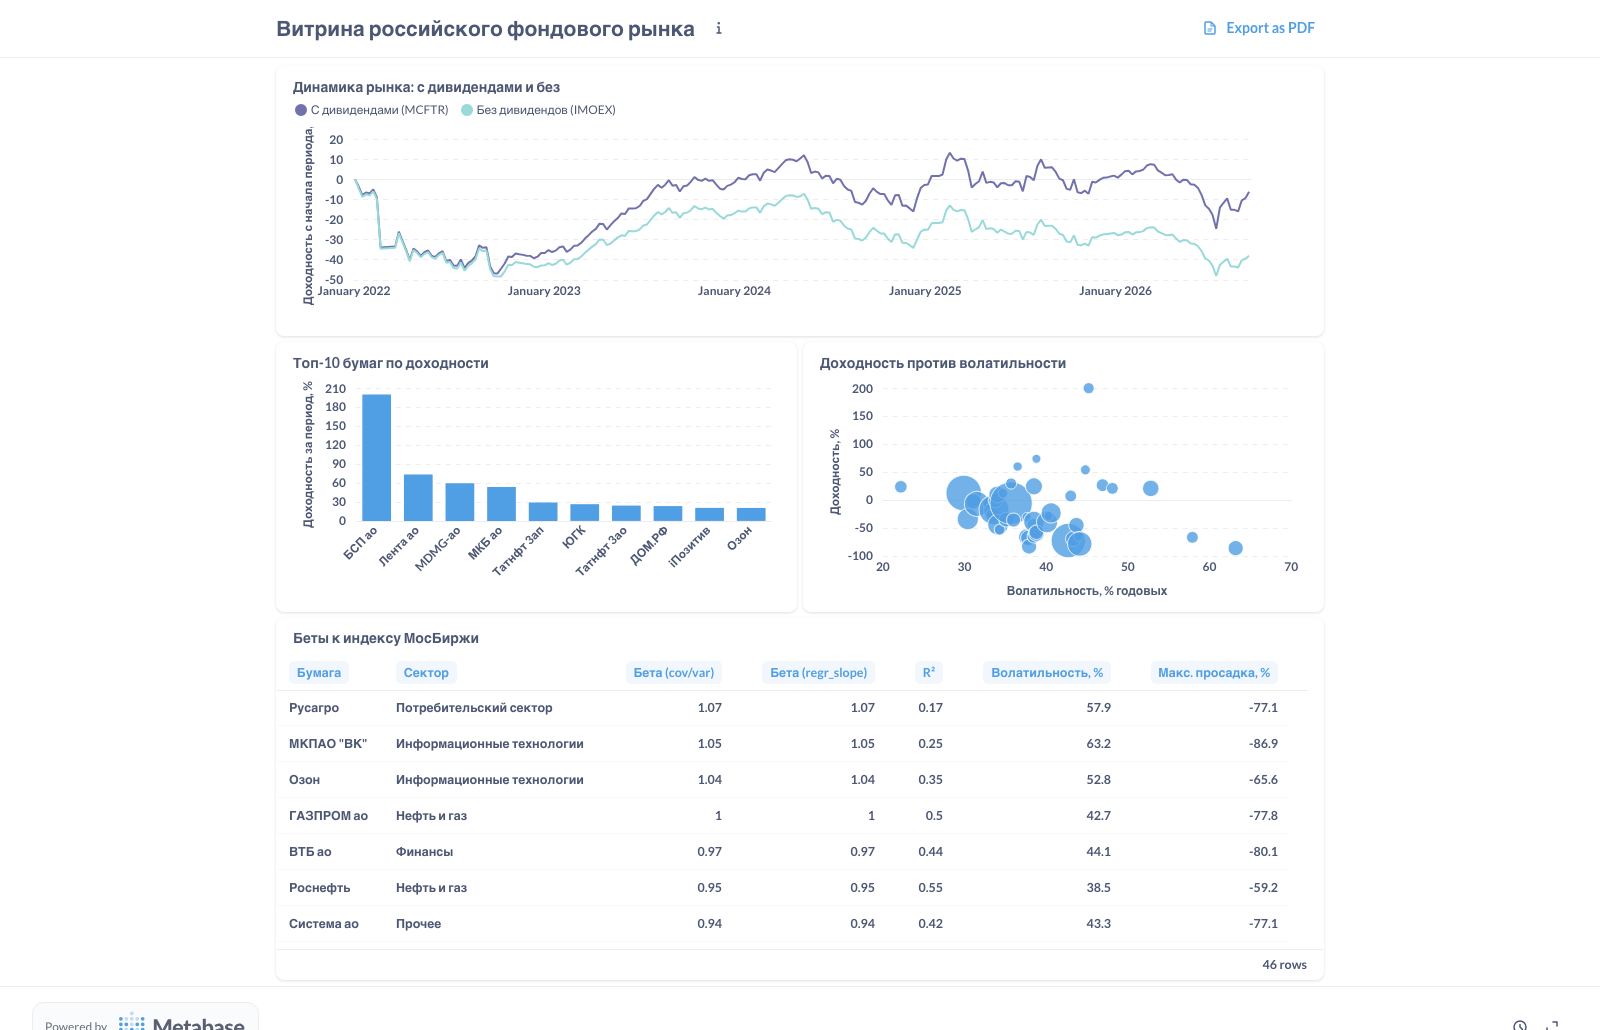
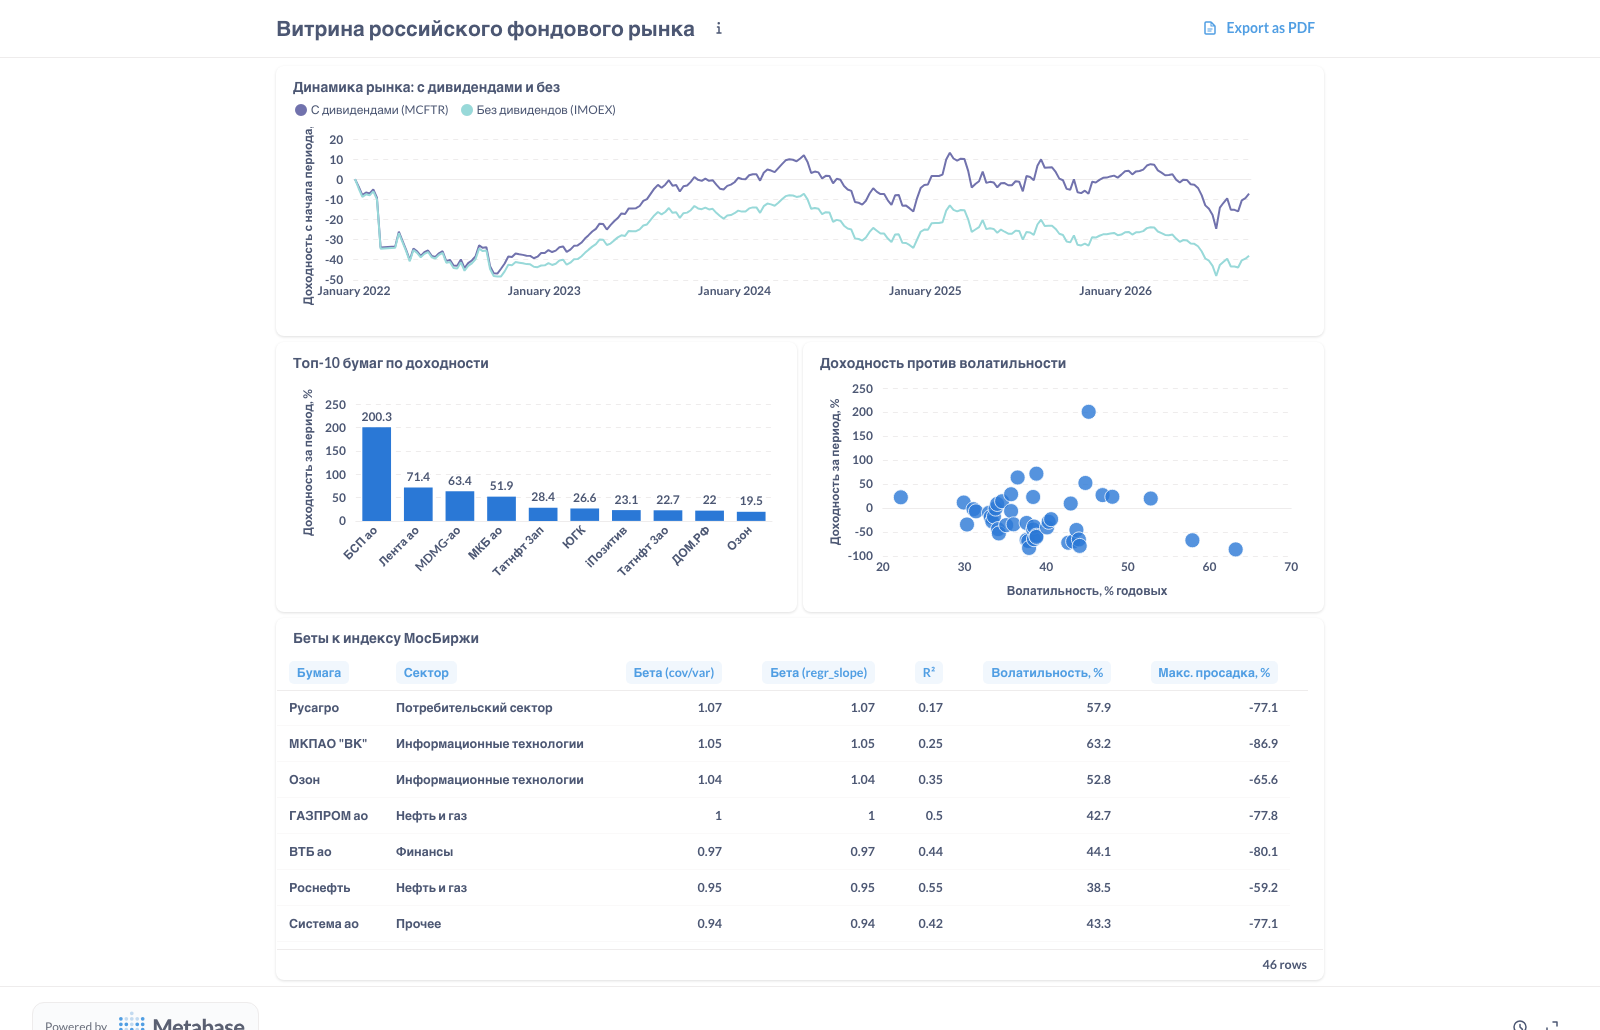
Лицензия MIT, планы EXPLAIN, читаемость панелей дашборда
- LICENSE (MIT): без неё формально никто не вправе использовать код
- docs/explain/: планы запросов, на которые ссылается таблица замеров
- замеры пересняты по медиане из десяти прогонов после прогрева; прежние
  цифры были одиночными замерами на холодном кэше и занижали эффект индекса
- топ-10: подписи значений на столбцах, период и пояснение про выброс
- диаграмма доходность/волатильность: убран размер пузыря, который кодировал
  оборот без легенды, подписаны обе оси
- .DS_Store в .gitignore

diff --git a/README.md b/README.md
@@ -191,19 +191,25 @@ Indexes:
 
 ### Замеры EXPLAIN (ANALYZE, BUFFERS)
 
-Запрос «срез рынка на дату», среднее из 5 прогонов:
+Методика: три прогона на прогрев, затем медиана из десяти замеров. Без
+прогрева первый запрос читает страницы с диска и цифры разъезжаются в разы —
+на таком объёме данных это единственное, что мерил бы одиночный замер.
+
+Запрос «срез рынка на дату» (`WHERE trade_date = ...`):
 
 | | Без индекса | С индексом |
 |---|---|---|
 | План | `Index Scan using quote_pk` | `Bitmap Index Scan on quote_date_secid_idx` |
-| Buffers | 229 | 48 |
-| Время | 1.350 мс | **0.473 мс** |
+| Buffers | 232 | 51 |
+| Время (медиана) | 1.031 мс | **0.223 мс** |
 
 Тяжёлый запрос (беты всех бумаг: оконная функция, соединение, агрегаты):
 
 | | Без индекса | С индексом |
 |---|---|---|
-| Время | 67.53 мс | 67.96 мс |
+| План | `Index Scan using quote_pk` | `Index Scan using quote_pk` |
+| Buffers | 533 | 533 |
+| Время (медиана) | 67.364 мс | 67.358 мс |
 
 **Индекс не дал ничего — и это самый поучительный результат.** План в обоих
 случаях одинаков: планировщик выбрал `quote_pk`. Оконной функции
@@ -214,7 +220,8 @@ Indexes:
 
 Вывод: индекс ускоряет не «запрос вообще», а конкретный способ доступа.
 Прежде чем добавлять индекс, надо посмотреть `EXPLAIN` и убедиться, что
-планировщик собирается им пользоваться.
+планировщик собирается им пользоваться. Полные планы — в
+[`docs/explain/`](docs/explain/).
 
 ### VIEW против MATERIALIZED VIEW
 
@@ -317,7 +324,7 @@ sql/
 └── performance/ запросы для замеров EXPLAIN
 etl/             клиент ISS API, оркестратор загрузки, проверки качества
 scripts/         сборка дашборда в Metabase через API
-docs/            скриншот дашборда
+docs/            скриншот дашборда, планы EXPLAIN
 ```
 
 Аналитические запросы:
